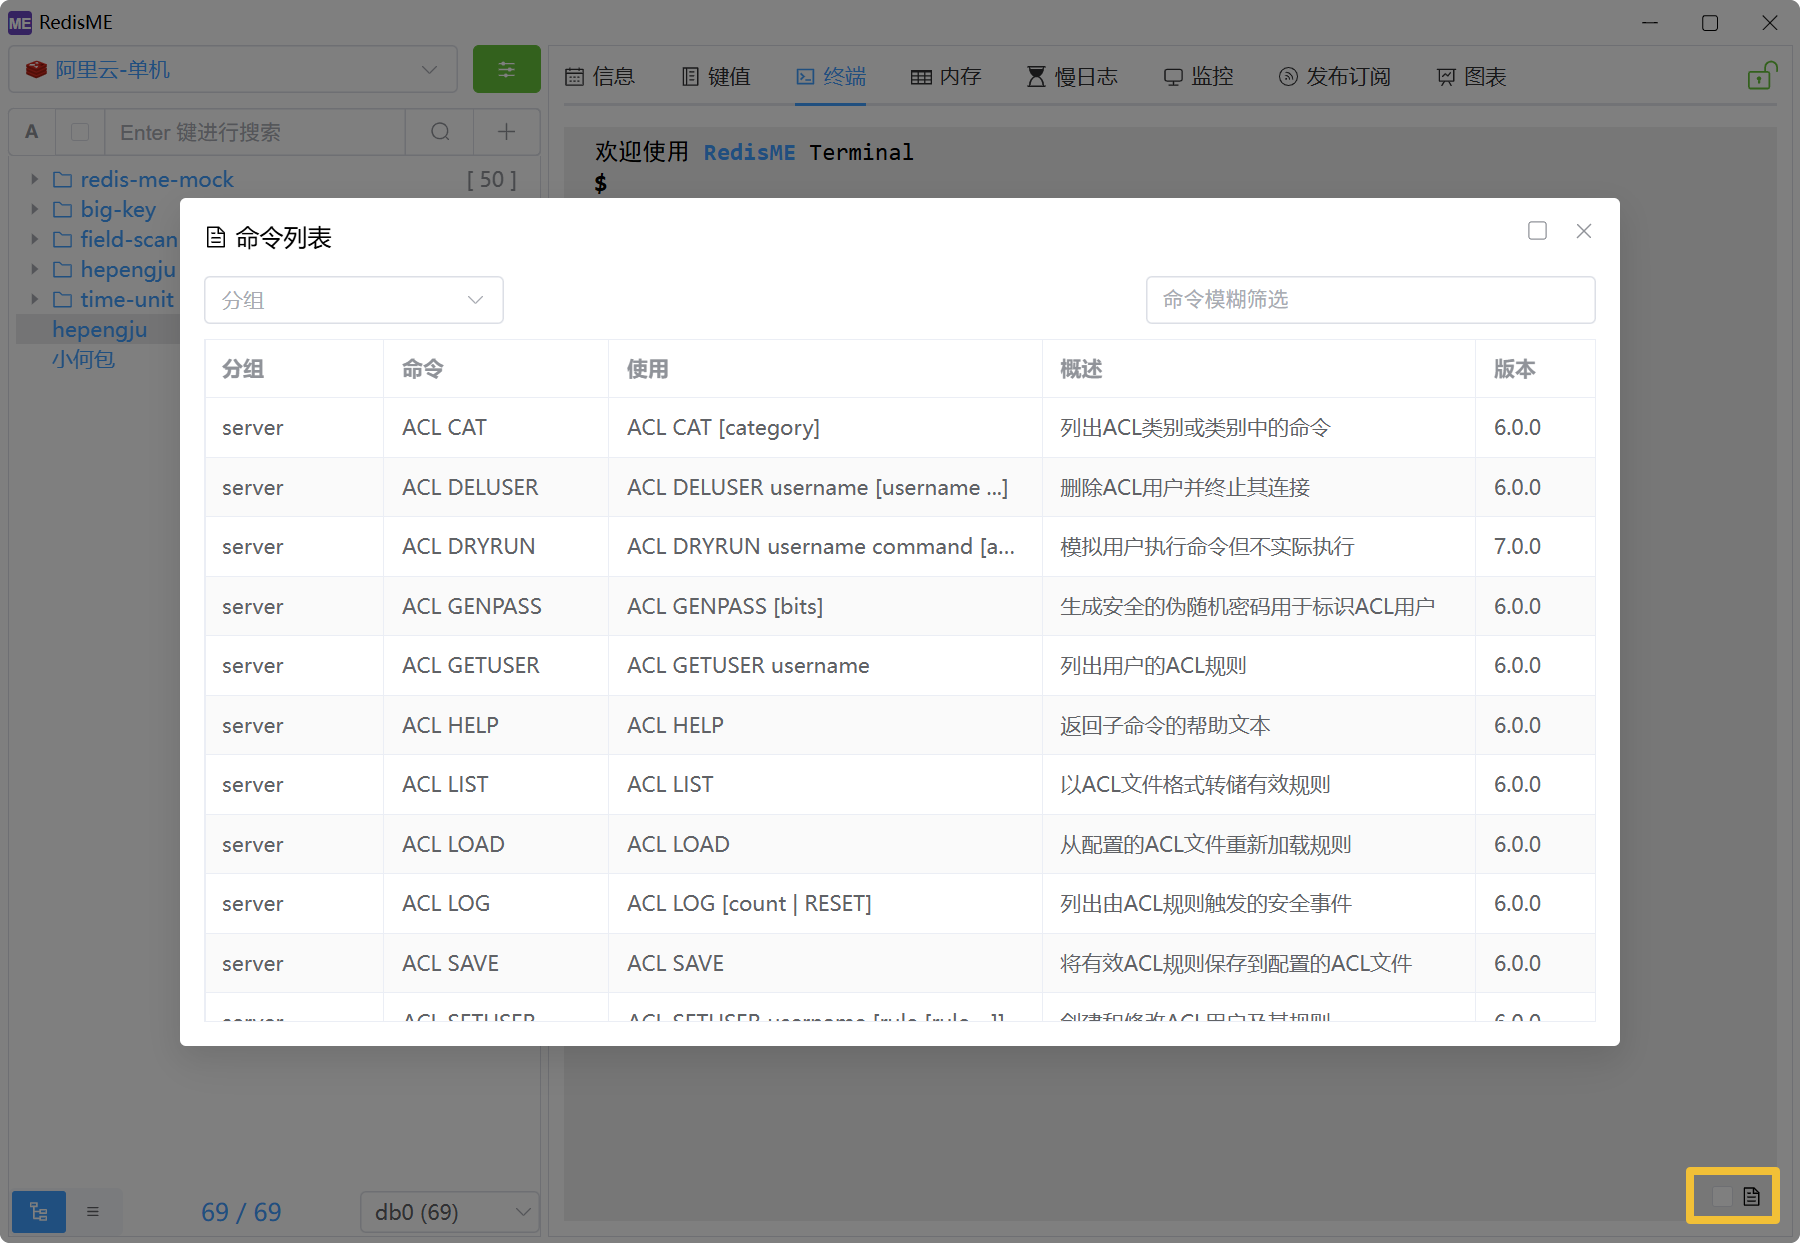
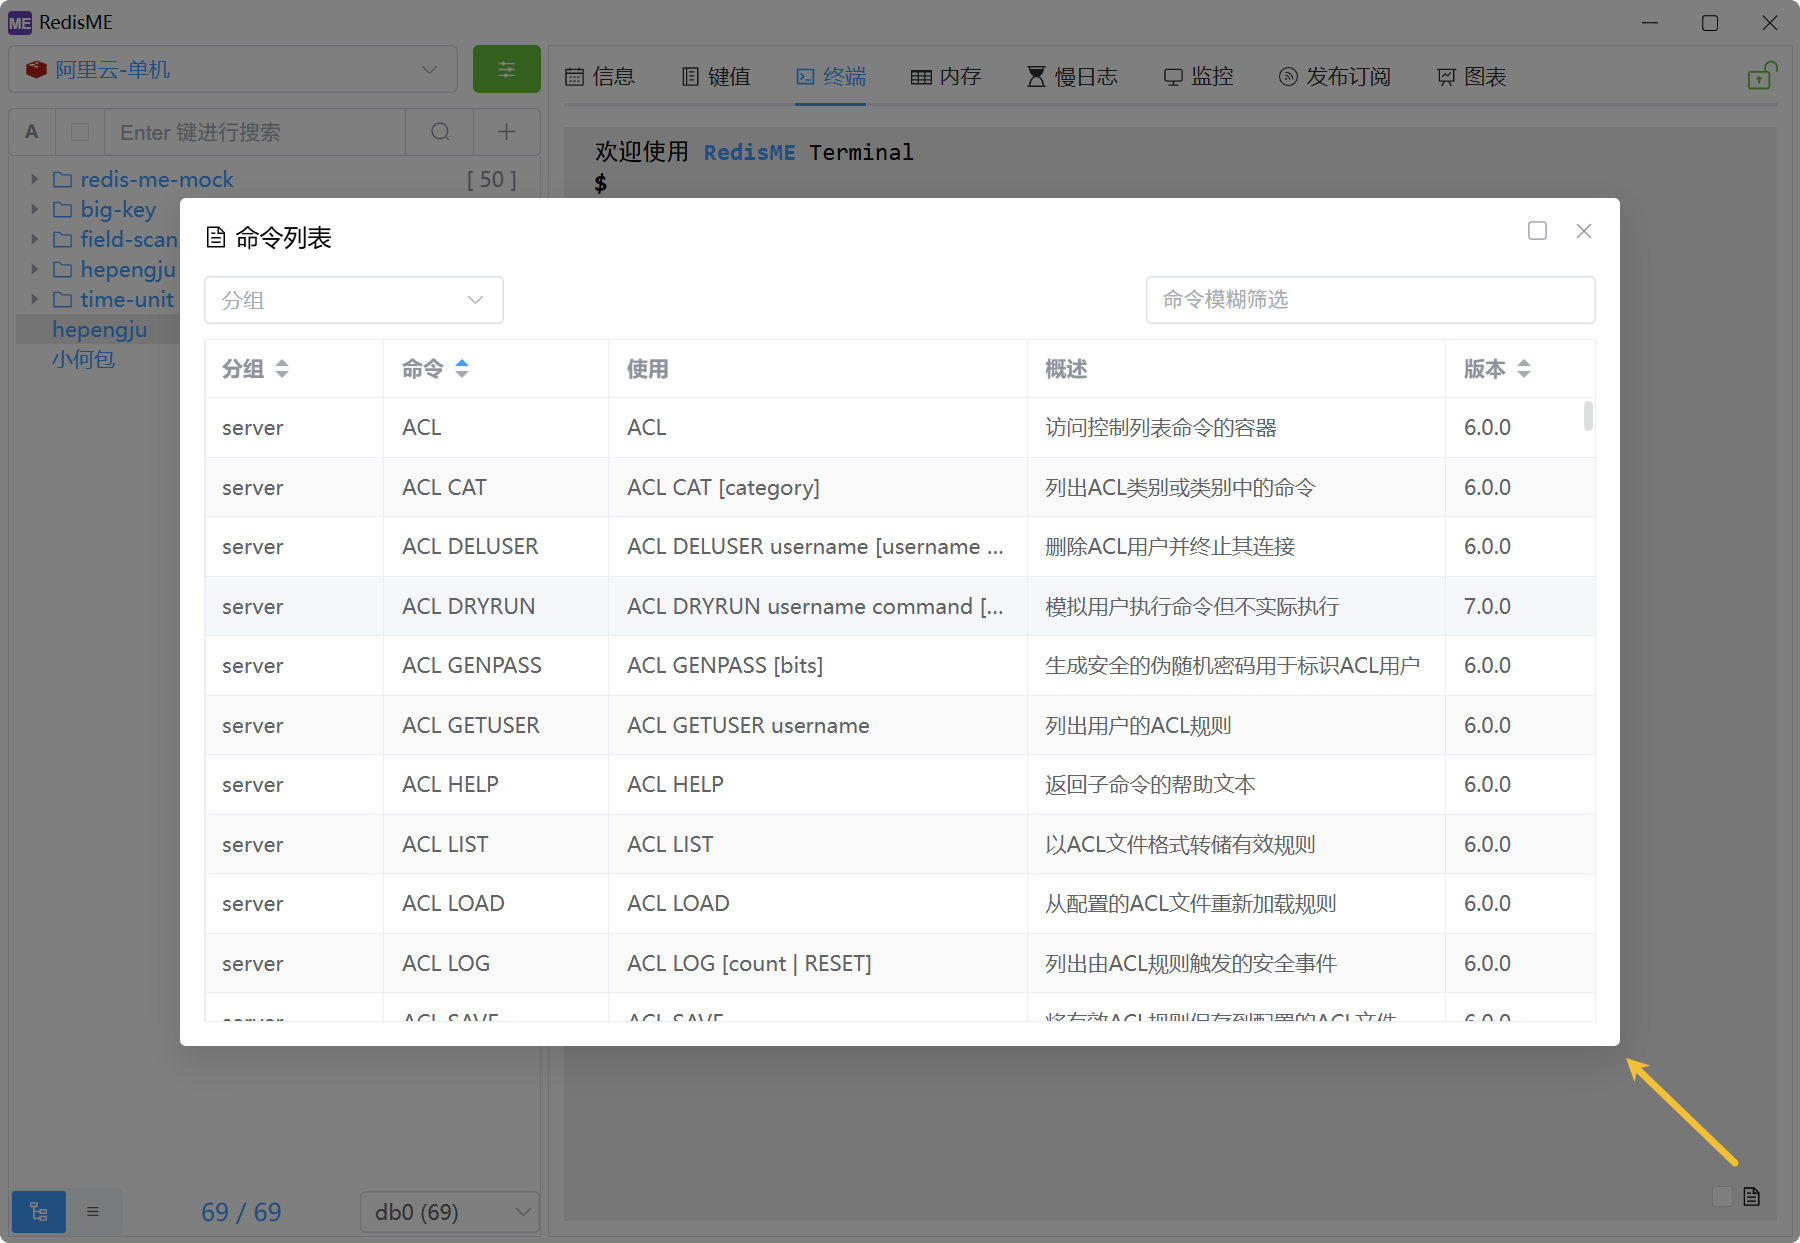
终端: 自动广播的i18n修正

diff --git a/src/views/tab/RedisTerminal.vue b/src/views/tab/RedisTerminal.vue
@@ -82,7 +82,7 @@ function openCommandDialog() {
 
     <!-- 集群节点 -->
     <div class="node me-flex" v-if="share.conn?.cluster">
-      <el-tooltip raw-content :content="t('redisTerminal.hint')" placement="top">
+      <el-tooltip raw-content :content="t('redisTerminal.broadcastHint')" placement="top">
         <el-checkbox v-model="autoBroadcast" :label="t('redisTerminal.autoBroadcast')" style="margin-left: 10px"/>
       </el-tooltip>
       <node-list v-model="node" clearable style="margin-left: 10px"/>